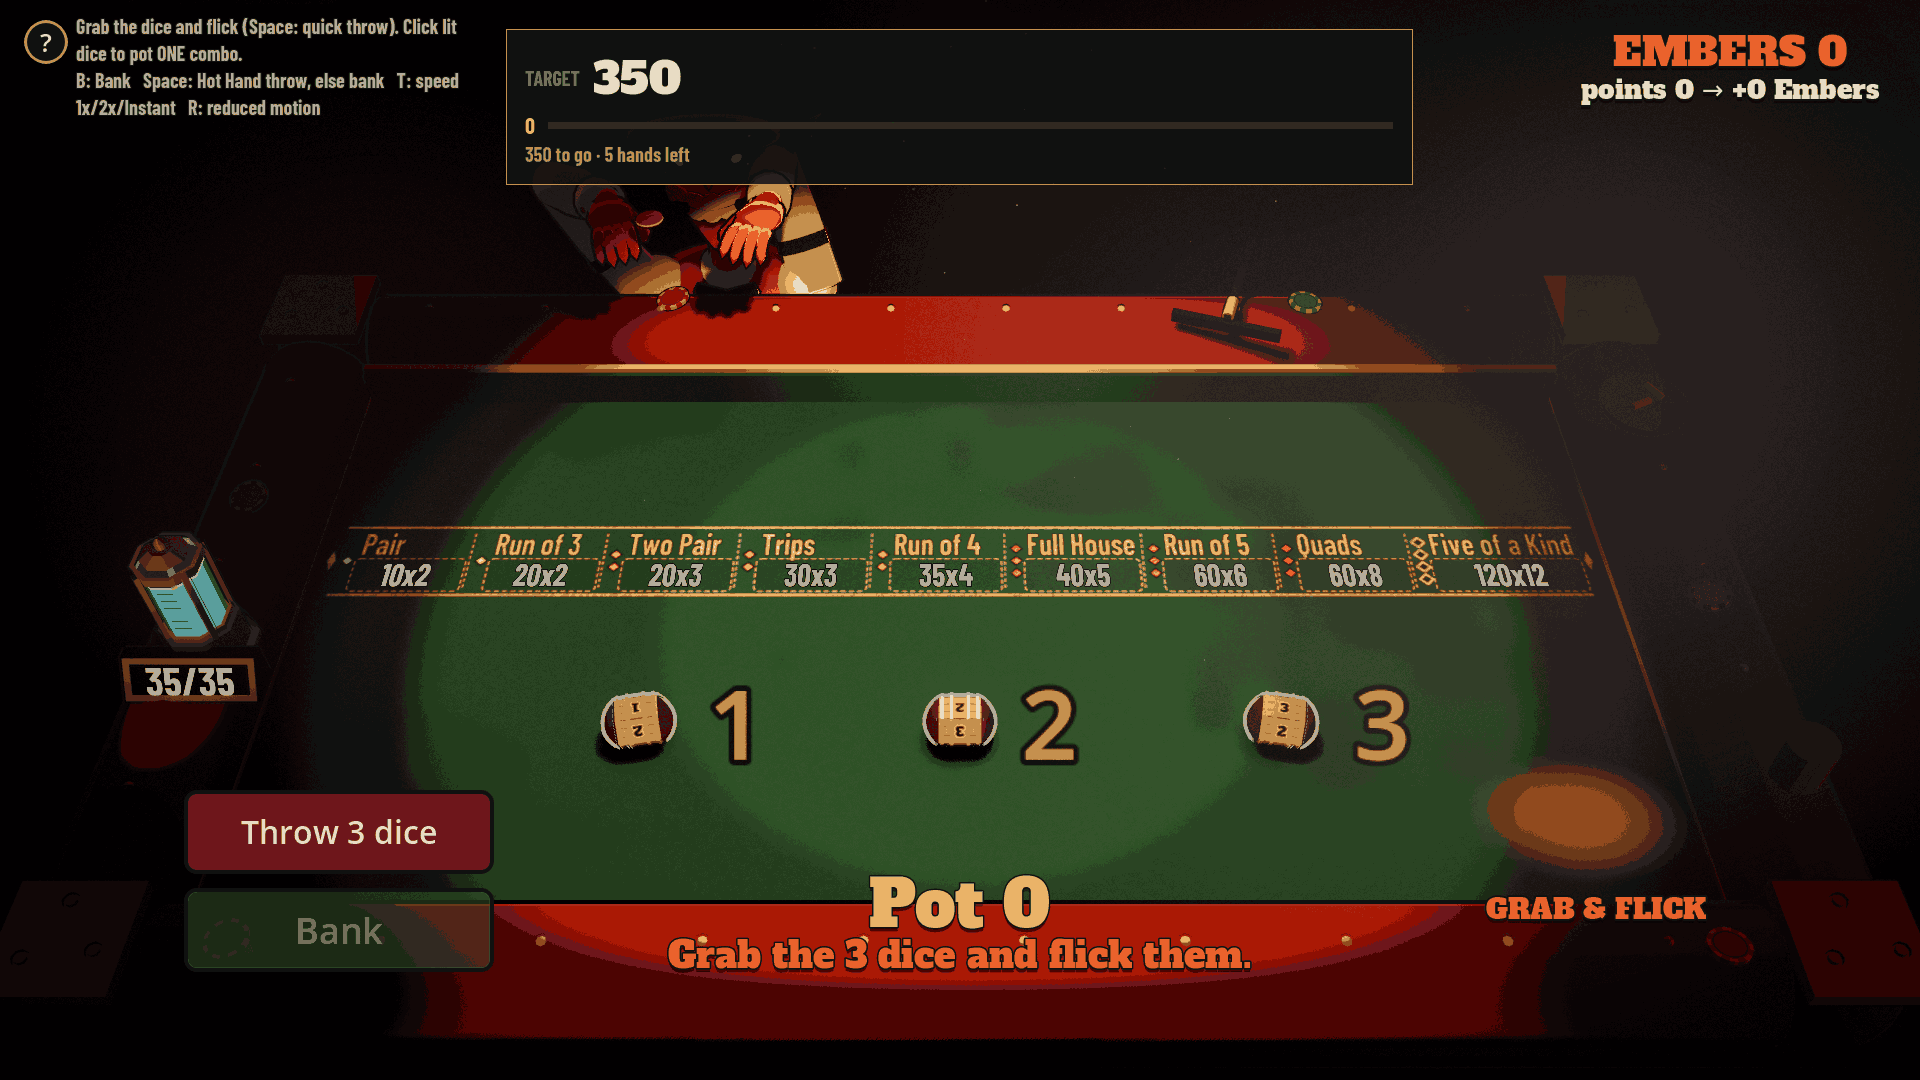
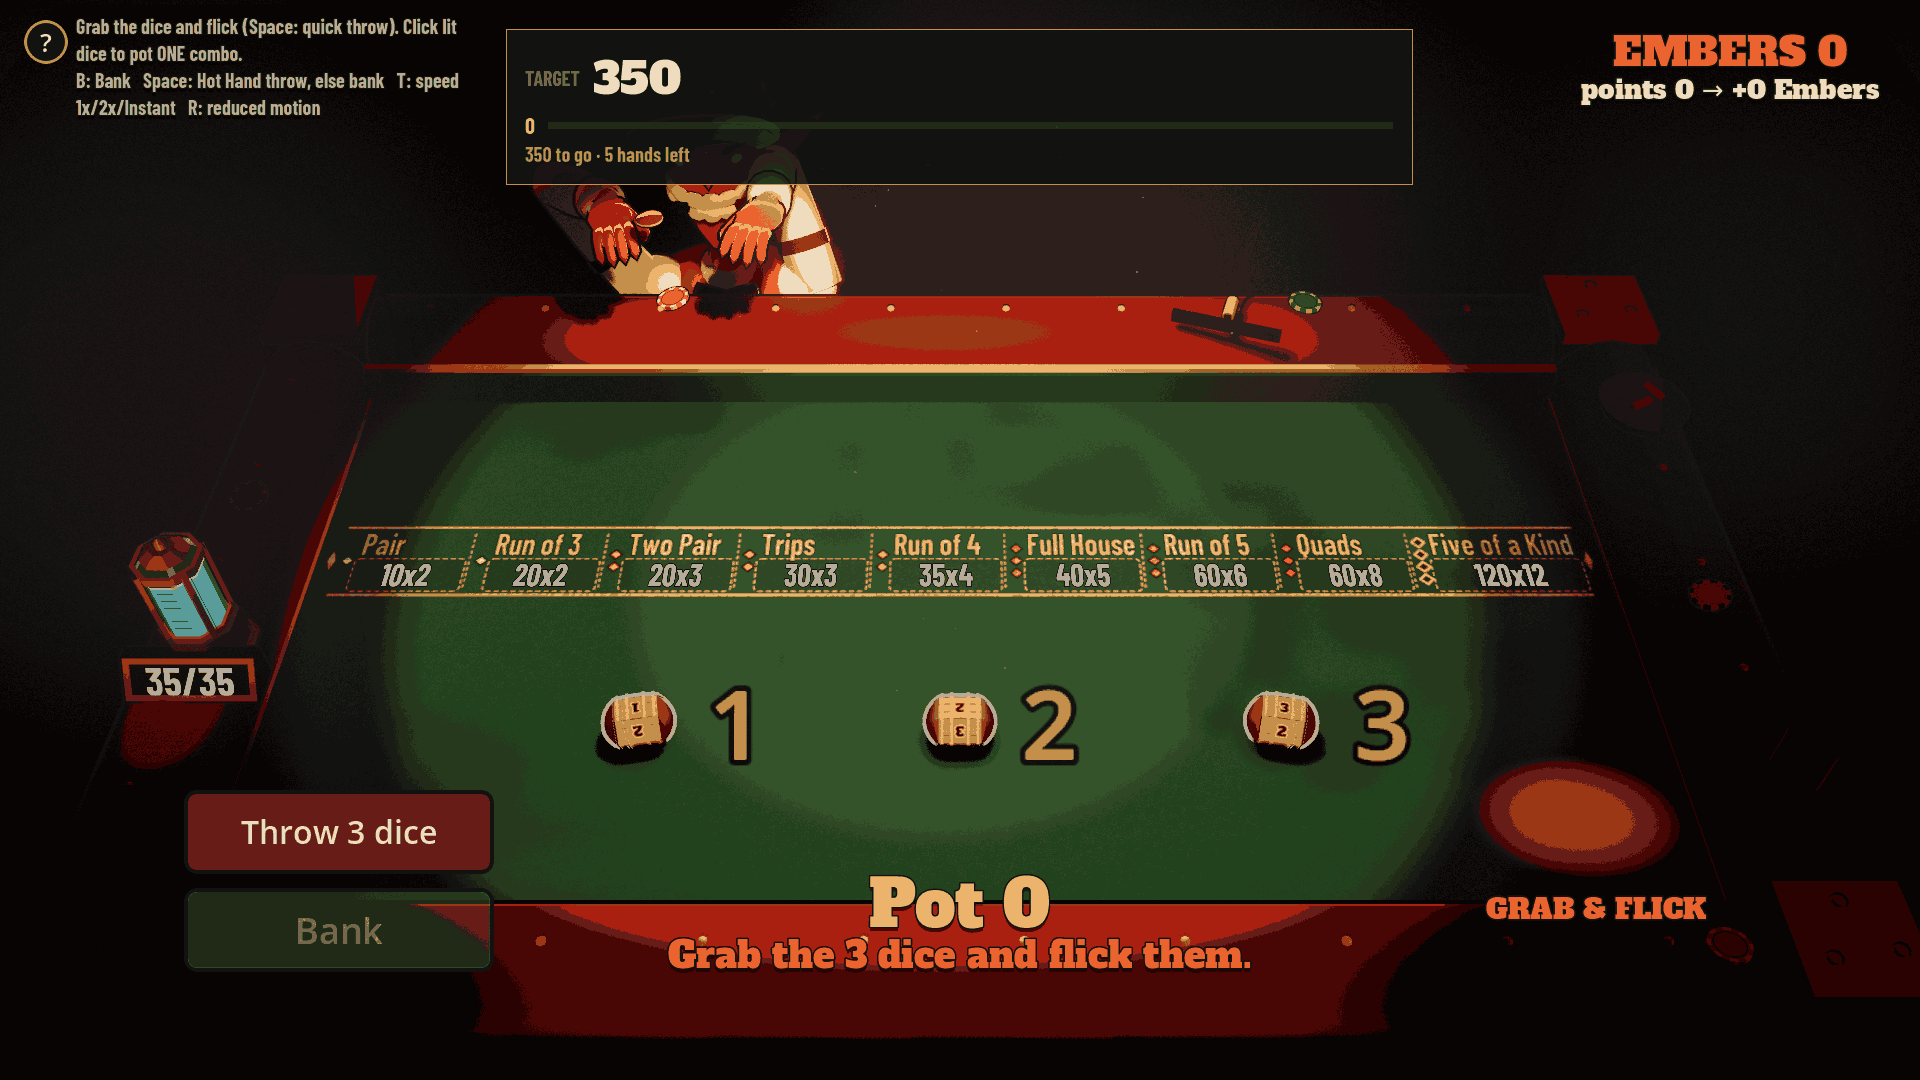
Skip specular on the whole Powder Keg stave body
The bright stripes beside the scored 2 are the hoop bands under the
bone specular lobe. Stave cells and the gutters between them now skip
specular and rim. Lids and hoops keep a soft lobe at strength 0.05,
broad enough that those bands no longer read as tally marks.

diff --git a/docs/ARCHITECTURE.md b/docs/ARCHITECTURE.md
@@ -309,7 +309,7 @@ that you add gets a row in [AI_CONTENT_LOG.md](AI_CONTENT_LOG.md).
   - Tests: `tests/test_d4_readable.gd` (brightness part needs a renderer: `xvfb-run -a godot --path . --rendering-method gl_compatibility --script ...`).
 - **Powder Keg readability:** the barrel (die id `powder_keg`, body shape `keg`) is read from the stave pointing up (values 1, 1, 2, 2, 3, 3). That stave faces the sky, so the angled camera sees a neighbouring stave (a different number) more face-on. Two readouts, no new signals, and no extra glow (emission stays the normal scoring glow, <= 0.3):
   - `scripts/table3d/keg_value_tag.gd` (`KegValueTag`, child `KegValueTag` of the die, a `D4ValueTag`) is an unlit camera-facing label of `DieVisual.shown_value()`. `PolyBody.dress` attaches it.
-  - `scripts/table3d/keg_stave_dim.gd` (`KegStaveDim`, child `KegStaveDim`) listens to the die's existing `settled` signal and to the table's existing `throw_started`. On settle it sets instance uniforms `lit_stave` (the face value 1, 2 or 3) and `stave_dim` (0..1, about 0.15 s, instant under reduced motion or Instant speed) on that die's body mesh. `shaders/3d/keg_stave_dim.gdshaderinc`, included by both `toon_noir.gdshader` and `toon_noir_twin.gdshader`, fades numeral ink in the other atlas cells toward the stave wood (value v lives in cell v−1; about 30% contrast remains). Lids and hoops are not numeral cells, so they stay. While the keg is rolling, and on every other die, both uniforms stay 0 and every numeral is full. `KegStaveDim` also sets instance uniform `keg_body` to 1 on that mesh only. Numeral ink then skips the bone die's specular lobe (`spec_size` 0.97, cream white), which the keg body otherwise inherits and which paints the up stave white when it reflects the lamp toward the camera. Rim on that ink is skipped the same way. Wood, lids and hoops still take the highlight. No emission is added. A new throw clears them at once. The separate rare "Powder Barrel" d6 (`barrel`) is not this die. Tests: `tests/test_keg_readable.gd`, `tests/test_keg_stave_dim.gd`.
+  - `scripts/table3d/keg_stave_dim.gd` (`KegStaveDim`, child `KegStaveDim`) listens to the die's existing `settled` signal and to the table's existing `throw_started`. On settle it sets instance uniforms `lit_stave` (the face value 1, 2 or 3) and `stave_dim` (0..1, about 0.15 s, instant under reduced motion or Instant speed) on that die's body mesh. `shaders/3d/keg_stave_dim.gdshaderinc`, included by both `toon_noir.gdshader` and `toon_noir_twin.gdshader`, fades numeral ink in the other atlas cells toward the stave wood (value v lives in cell v−1; about 30% contrast remains). Lids and hoops are not numeral cells, so they stay. While the keg is rolling, and on every other die, both uniforms stay 0 and every numeral is full. `KegStaveDim` also sets instance uniform `keg_body` to 1 on that mesh only, and sets the body's `spec_strength` to 0.05. Specular and rim then stay off every mustard stave cell, including the gutter cells between the numerals. Only the lids (atlas cell 23) and the hoops (cell 24) keep a shine, and that shine is a soft lobe (`smoothstep(0.40, 0.82, N·H)`) instead of the bone die's hard step at `spec_size` 0.97. Other dice are unchanged. No emission is added. A new throw clears them at once. The separate rare "Powder Barrel" d6 (`barrel`) is not this die. Tests: `tests/test_keg_readable.gd`, `tests/test_keg_stave_dim.gd`.
 - **Nerve panel dodge (#198):** `NerveUi._place_panels` puts the "Nerve ready" pip and the rescue prompt at their home spot, then through `RulesPlaqueDodge.place(rect, blockers, view)` (left, below, above, right; else least overlap). The blockers (`NerveUi._blockers`) are the landed dice (`RulesPlaqueDodge.die_rect`) plus `HudTextRects.collect`, minus the Nerve UI's own labels and the bounty cards it hangs under. Target HUD v2.1: the goal plate (grown 24 px) is a blocker too, Nerve re-places in the same frame the plate or SEALS chip moves (`item_rect_changed`), and when all 4 spots overlap the dodge sweeps for the first clear spot. Test: `tests/test_target_hud.gd`. Test: `tests/test_nerve_die_clear.gd` (PC 16:9 and phone 844x390, d4 parked under the pip).
 
 <!-- SECTION: VFX Dev — FX (owner text; replace freely) -->
